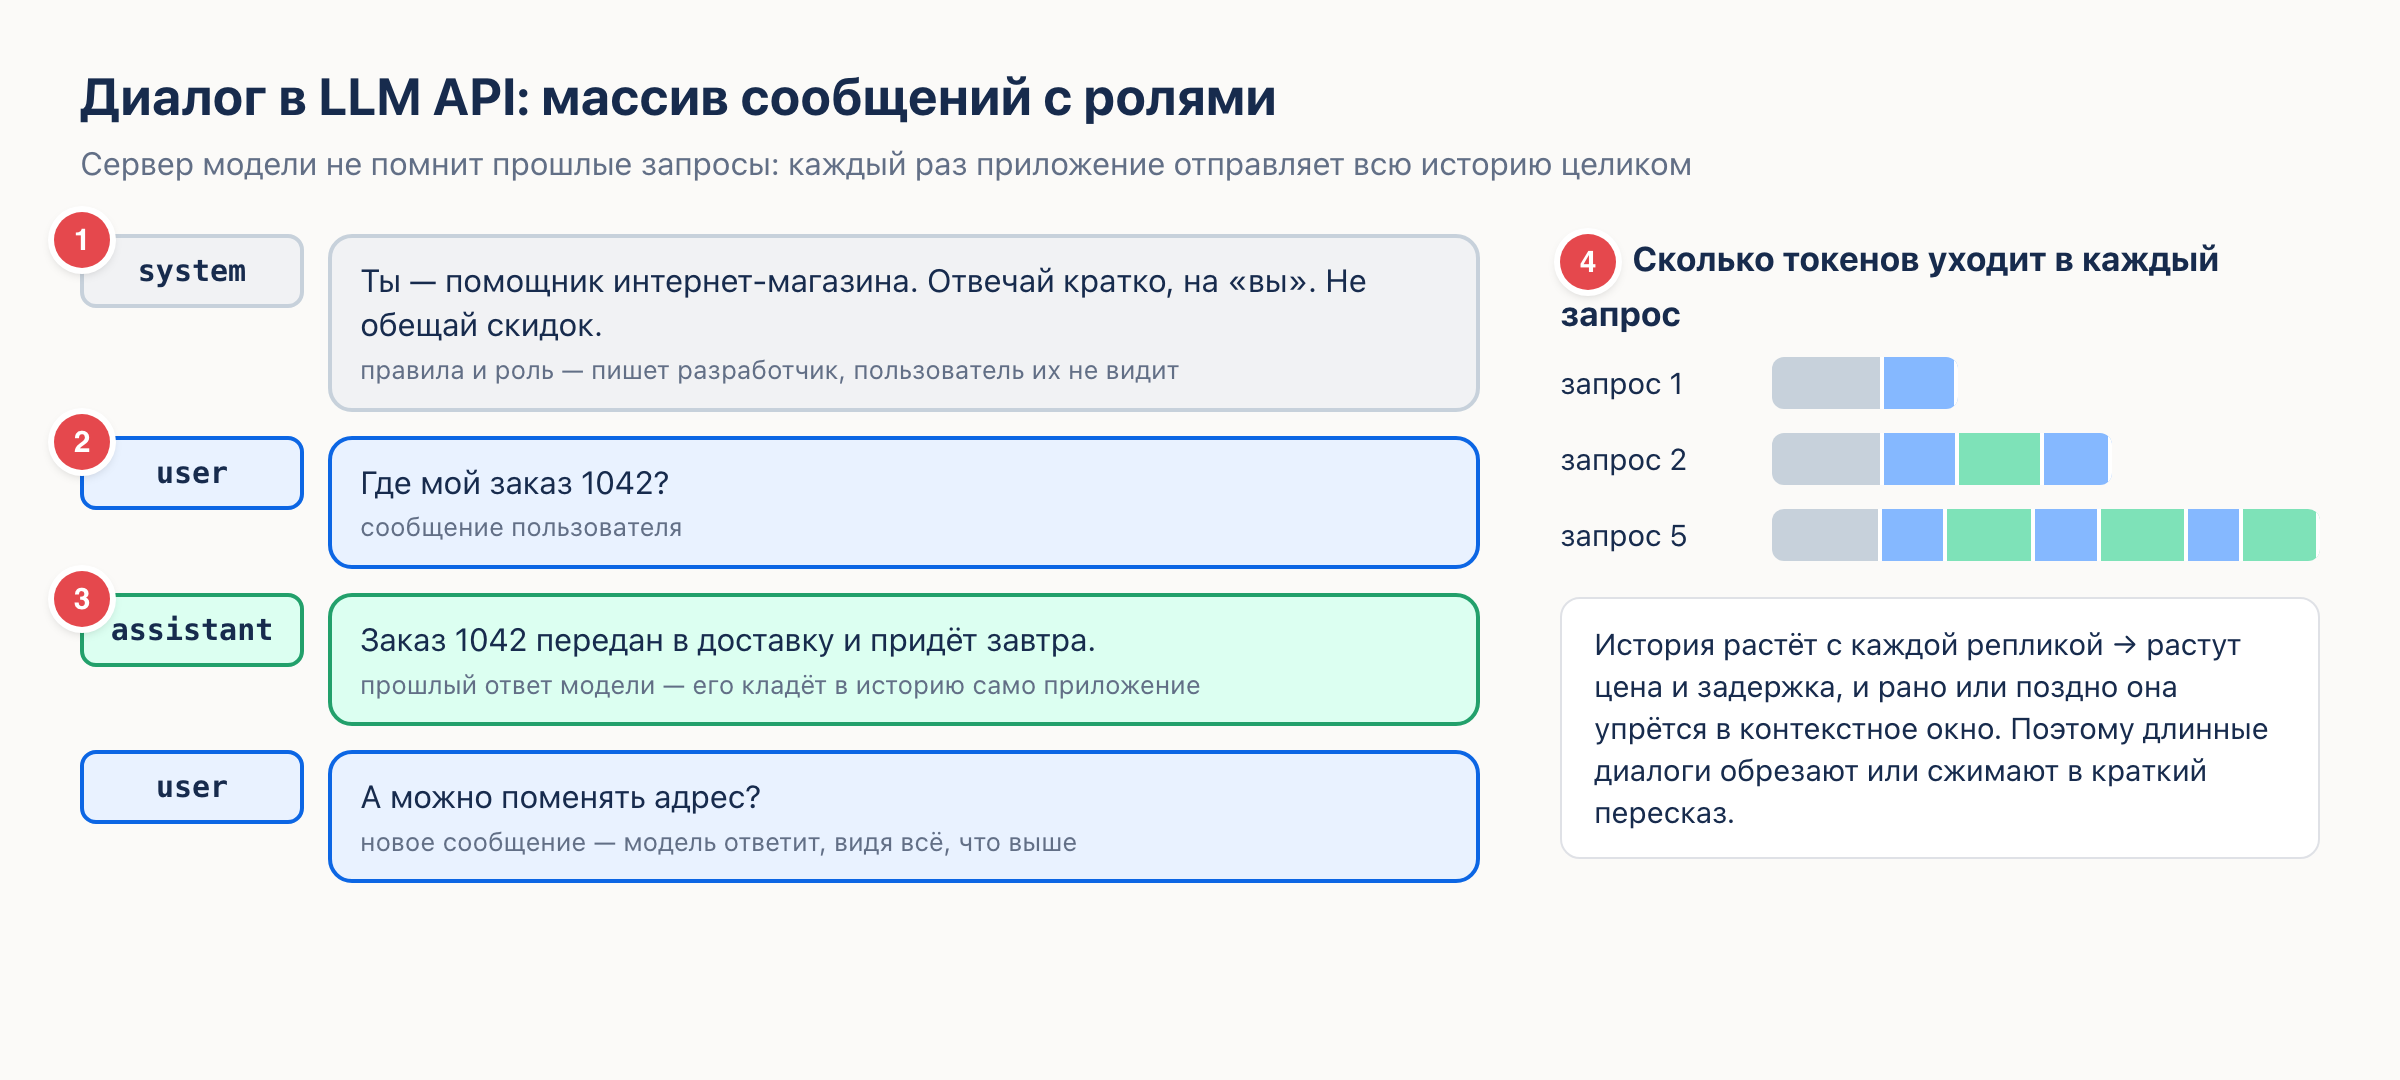
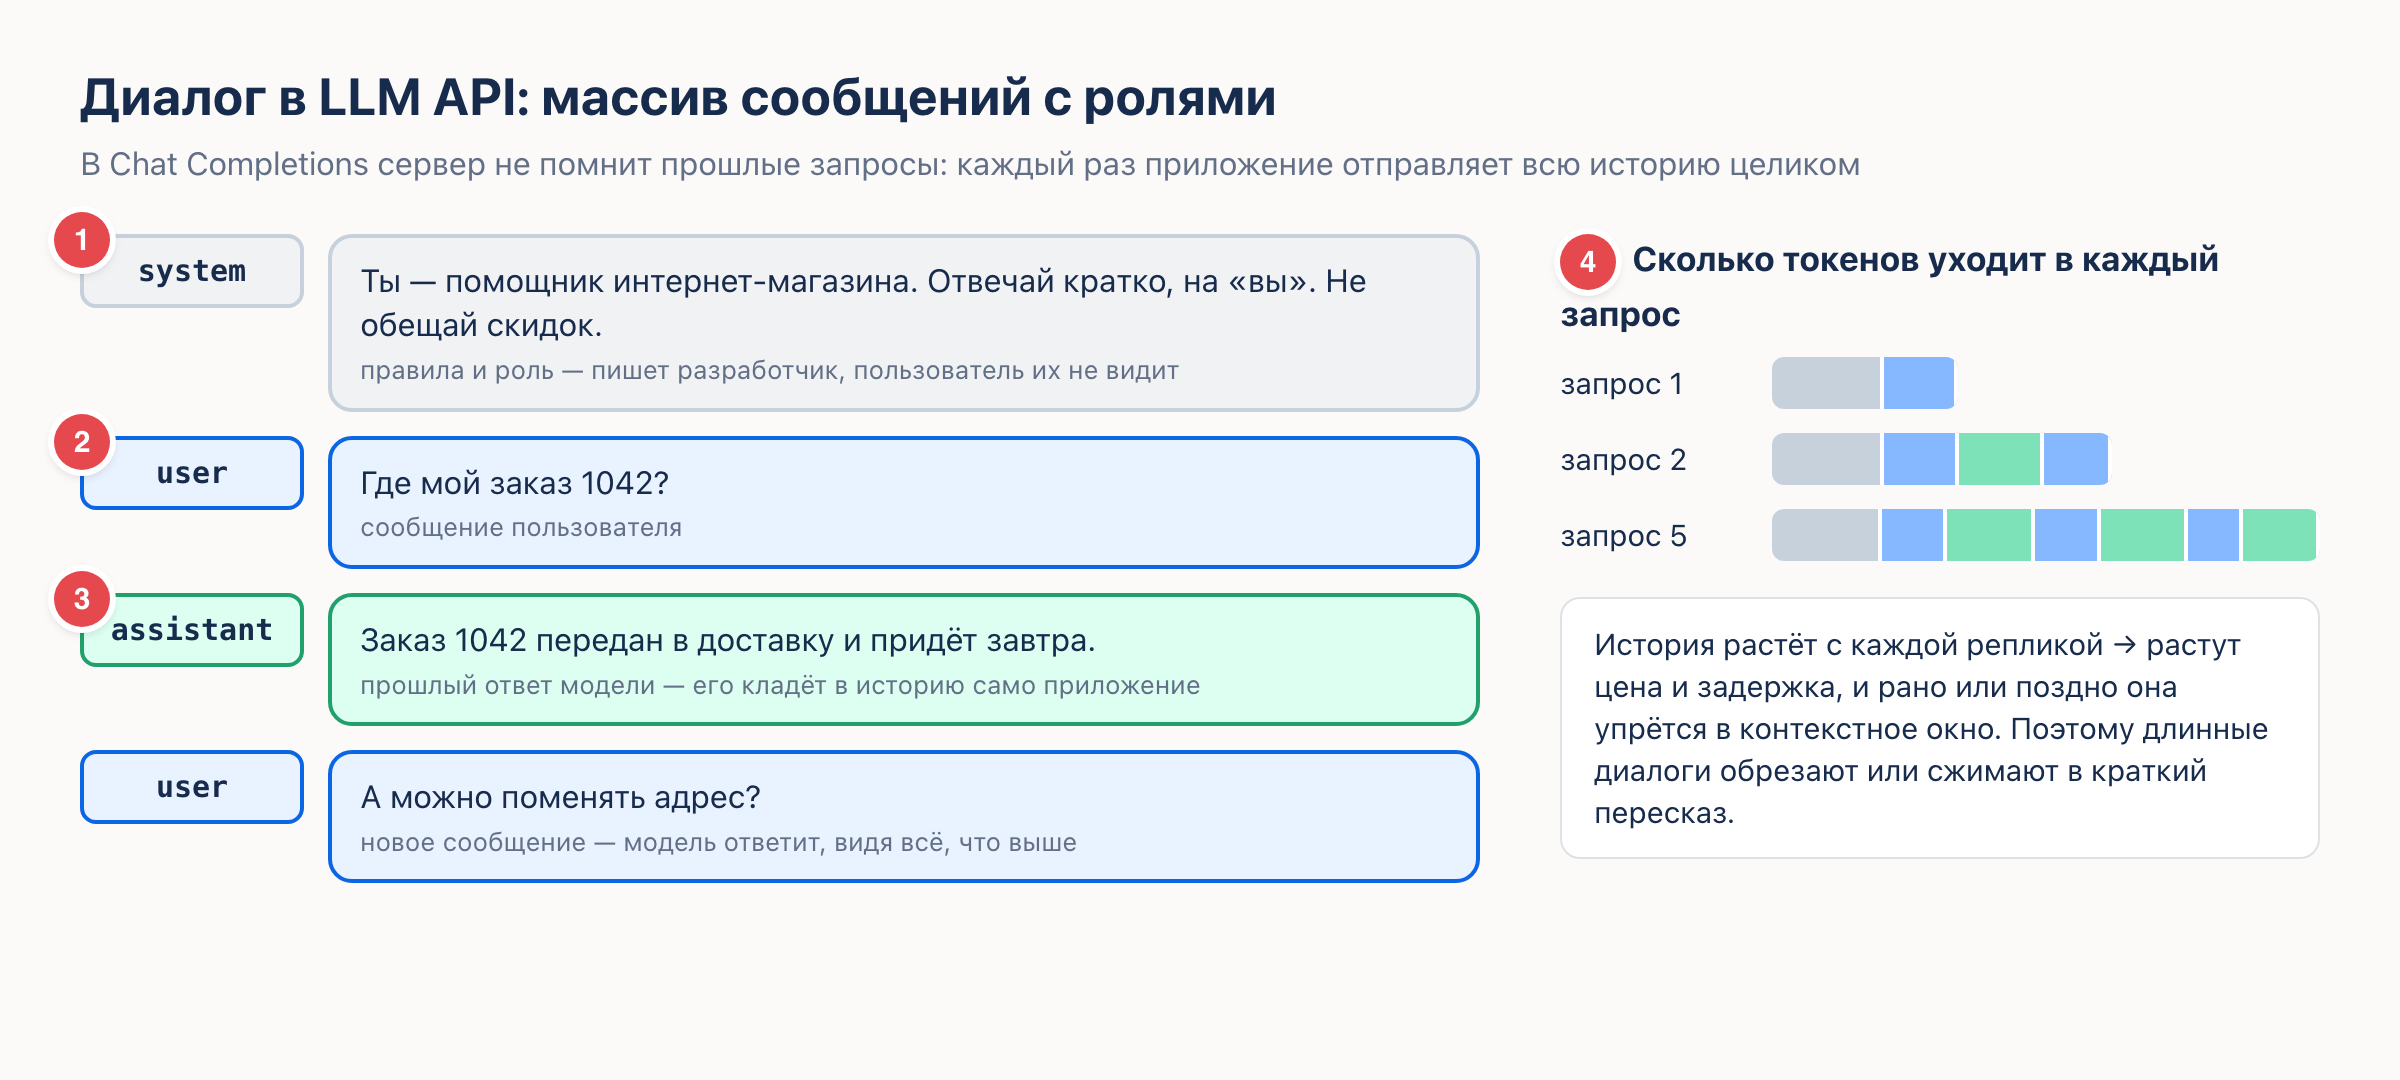
fix: замечания повторного ревью курса LLM
- tool calling: при исчерпании лимита раундов — явная ошибка (for/else),
  неизвестный инструмент не вызывается.
- classify: любой finish_reason кроме "stop" (обрыв, фильтр, отказ) —
  ошибка без бессмысленных повторов.
- «Модель не помнит» вместо «API не хранит состояние» в exam.json и на
  схеме chat-roles (оговорка про Chat Completions).
- Сниппет эмбеддингов не обещает «близко к 1»; эталон про стриминг
  упоминает пустую строку SSE.
- Таблицы: отступ перенесён с таблицы на обёртку .table-scroll — обёртка
  создаёт свой контекст, и отступы у всех таблиц выросли почти вдвое.
- Тест картинок сверяет регистр каждого сегмента пути, а не только
  имени файла (LLM/tokens.png на Linux — 404).

Changed region(s): [[0.0312, 0.1222, 0.7812, 0.1833]]

diff --git a/scripts/lesson-screens/llm/chat-roles.html b/scripts/lesson-screens/llm/chat-roles.html
@@ -18,7 +18,7 @@
 </style></head>
 <body><div class="canvas">
   <div class="dg-title">Диалог в LLM API: массив сообщений с ролями</div>
-  <div class="dg-sub">Сервер модели не помнит прошлые запросы: каждый раз приложение отправляет всю историю целиком</div>
+  <div class="dg-sub">В Chat Completions сервер не помнит прошлые запросы: каждый раз приложение отправляет всю историю целиком</div>
 
   <div class="wrap">
     <div class="msgs">

diff --git a/frontend/src/index.css b/frontend/src/index.css
@@ -426,6 +426,16 @@ body,
   margin: 1.2rem 0;
   font-size: 0.95rem;
 }
+/* Markdown.tsx wraps every table in .table-scroll. The wrapper is its own
+   formatting context, so the table's margin would no longer collapse into the
+   paragraph's — the margin moves to the wrapper instead. */
+.prose .table-scroll {
+  overflow-x: auto;
+  margin: 1.2rem 0;
+}
+.prose .table-scroll > table {
+  margin: 0;
+}
 .prose th,
 .prose td {
   border: 1px solid var(--color-border);

diff --git a/frontend/src/components/Markdown.tsx b/frontend/src/components/Markdown.tsx
@@ -85,7 +85,7 @@ export function Markdown({ markdown }: { markdown: string }) {
           // scroll on its own instead of pushing the whole page sideways.
           table({ children }) {
             return (
-              <div className="overflow-x-auto">
+              <div className="table-scroll">
                 <table>{children}</table>
               </div>
             );

diff --git a/backend/tests/test_content_integrity.py b/backend/tests/test_content_integrity.py
@@ -275,10 +275,15 @@ def test_lesson_images_exist_and_sizes_match(bundle, content_root):
             for match in _LESSON_IMAGE.finditer(lesson.markdown):
                 url, width, height = match.groups()
                 where = f"{course.slug}/{lesson.slug}: {url}"
-                file = public / url.lstrip("/")
-                # exact name: macOS matches "TOKENS.png" to tokens.png, the Linux
-                # container serving the app does not
-                if not file.is_file() or file.name not in os.listdir(file.parent):
+                rel = Path(url.lstrip("/"))
+                file = public / rel
+                # exact case for every segment: macOS matches "LLM/TOKENS.png" to
+                # llm/tokens.png, the Linux container serving the app does not
+                exact = file.is_file() and all(
+                    part in os.listdir(public.joinpath(*rel.parts[:i]))
+                    for i, part in enumerate(rel.parts)
+                )
+                if not exact:
                     problems.append(f"{where}: file missing")
                     continue
                 if width is None:

diff --git a/content/courses/llm/01-llm-basics.md b/content/courses/llm/01-llm-basics.md
@@ -344,8 +344,8 @@ def classify(text: str, attempts: int = 3) -> Ticket:
             response_format={"type": "json_object"},  # JSON mode
         )
         choice = resp.choices[0]
-        if choice.finish_reason == "length":  # обрыв на лимите — повтор не поможет
-            raise ValueError("ответ не влез в max_tokens")
+        if choice.finish_reason != "stop":  # обрыв на лимите, фильтр, отказ — повтор не поможет
+            raise ValueError(f"модель не закончила ответ: {choice.finish_reason}")
         raw = choice.message.content
         try:
             return Ticket.model_validate_json(raw)
